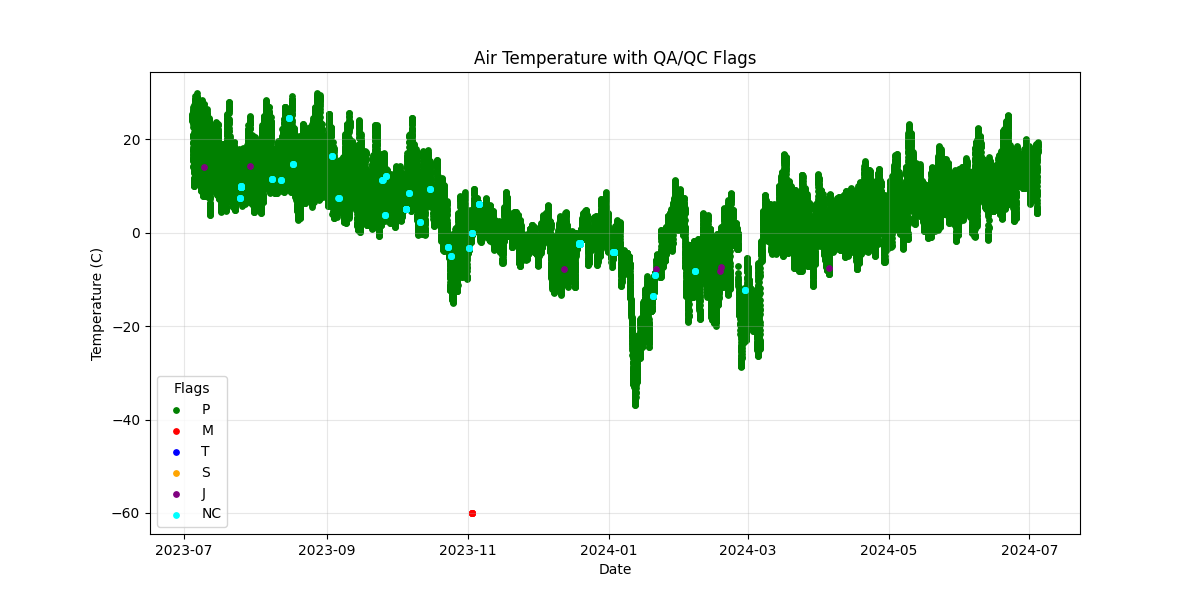
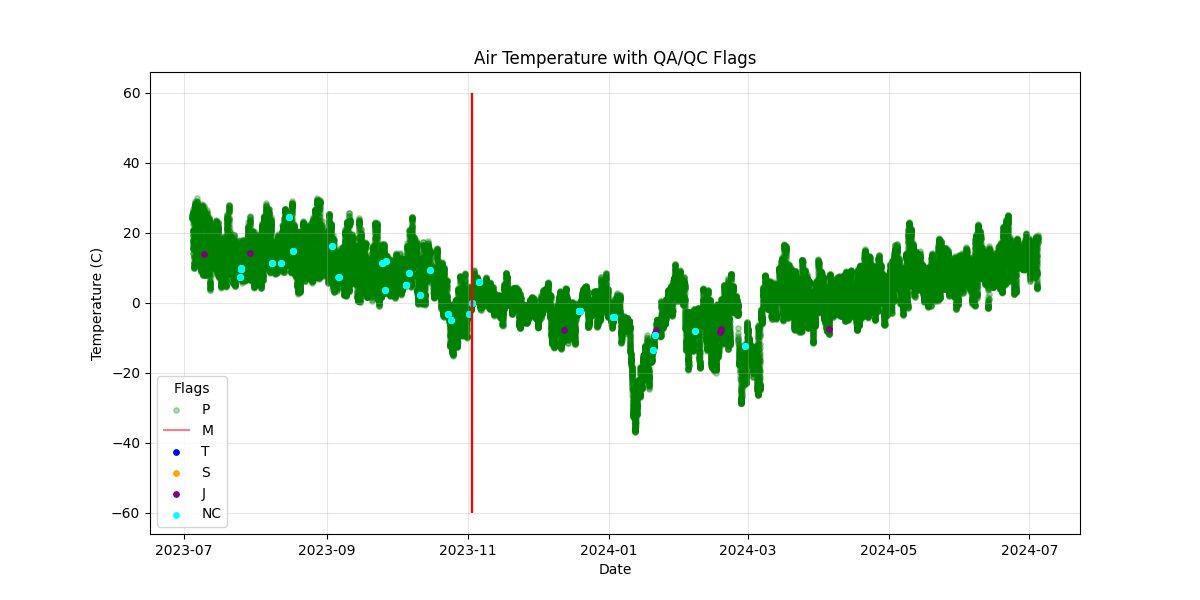
changes

diff --git a/weather_processing.py b/weather_processing.py
@@ -1,0 +1,147 @@
+import pandas as pd
+import numpy as np
+
+def process_weather_column(df, target_col, min_val, max_val, rate_of_change):
+    """
+    Applies QA/QC flags to a specific column in the dataframe.
+    
+    Args:
+        df (pd.DataFrame): The weather data dataframe (must contain 'TIMESTAMP' and target_col).
+        target_col (str): The name of the column to process.
+        min_val (float): Minimum valid value.
+        max_val (float): Maximum valid value.
+        rate_of_change (float): Maximum allowed change between consecutive records.
+        
+    Returns:
+        pd.DataFrame: A new dataframe containing TIMESTAMP, target_col, Flag, and Limit columns.
+    """
+    # Work on a copy to avoid SettingWithCopy warnings on the original df
+    # We only need specific columns for processing, but we keep TIMESTAMP for sorting/indexing
+    if target_col not in df.columns:
+        print(f"Error: {target_col} not found in columns.")
+        return pd.DataFrame()
+
+    # Create a working copy with just the necessary columns to ensure cleanliness
+    # or just copy the whole thing if we want to return it all. 
+    # The prompt implies we want to output a file specific to this column usually, 
+    # but for a general function, let's keep the logic focused on the column.
+    
+    df_proc = df[['TIMESTAMP', target_col]].copy()
+    
+    # Ensure sorted by time
+    df_proc.sort_values('TIMESTAMP', inplace=True)
+    
+    # Calculate Differences
+    # diff_prev: Value - PrevValue
+    df_proc['diff_prev'] = df_proc[target_col] - df_proc[target_col].shift(1)
+    # diff_next: Value - NextValue
+    df_proc['diff_next'] = df_proc[target_col] - df_proc[target_col].shift(-1)
+    
+    # Initialize Flag Column
+    df_proc['Flag'] = ''
+    
+    # 1. Missing (M)
+    mask_m = df_proc[target_col].isna()
+    df_proc.loc[mask_m, 'Flag'] = 'M'
+    
+    # 2. Temperature/Range Check (T): < min or > max
+    # Note: Using 'T' as requested to match original logic, even if generic.
+    
+    mask_t = (df_proc[target_col] < min_val) | (df_proc[target_col] > max_val)
+    
+    # Helper to append flags
+    def append_flag(mask, flag_char):
+        new_mask = mask & (df_proc['Flag'] == '')
+        existing_mask = mask & (df_proc['Flag'] != '') & (df_proc['Flag'] != 'M')
+        
+        df_proc.loc[new_mask, 'Flag'] = flag_char
+        df_proc.loc[existing_mask, 'Flag'] += ', ' + flag_char
+
+    append_flag(mask_t, 'T')
+
+    # 3. No Change Check (NC)
+    # Flag if 4 or more consecutive rows have the EXACT same numeric value
+    grp = (df_proc[target_col] != df_proc[target_col].shift()).cumsum()
+    grp_counts = df_proc.groupby(grp)[target_col].transform('count')
+    mask_nc = (grp_counts >= 4) & (df_proc[target_col].notna())
+    append_flag(mask_nc, 'NC')
+
+    # 4. Spike Check (S)
+    # Original simplifed logic:
+    # Abs diff > rate_of_change from BOTH prev and next
+    # Note: original code calculated diff_next/prev as actual differences (signed).
+    # mask_s = (df['diff_next'] > rate_of_change) & (df['diff_prev'] > rate_of_change)
+    # This specifically targets upward spikes. 
+    # To keep it EXACTLY the same as requested:
+    
+    mask_s = (df_proc['diff_next'] > rate_of_change) & (df_proc['diff_prev'] > rate_of_change)
+    append_flag(mask_s, 'S')
+    
+    # 5. Jump Check (J)
+    # Abs diff from Prev > rate
+    mask_j = df_proc['diff_prev'].abs() > rate_of_change
+    append_flag(mask_j, 'J')
+    
+    # 6. Pass (P)
+    mask_p = (df_proc['Flag'] == '') & (df_proc[target_col].notna())
+    df_proc.loc[mask_p, 'Flag'] = 'P'
+    
+    # Add Limit Columns for reference
+    df_proc['Min_Limit'] = min_val
+    df_proc['Max_Limit'] = max_val
+    df_proc['Rate_Limit'] = rate_of_change
+    
+    return df_proc[['TIMESTAMP', target_col, 'Flag', 'Min_Limit', 'Max_Limit', 'Rate_Limit']]
+
+if __name__ == "__main__":
+    import argparse
+    import os
+
+    parser = argparse.ArgumentParser(description="Process weather data column with QA/QC.")
+    parser.add_argument("--col", required=True, help="Column name to process (e.g., RH, BattV_Avg)")
+    parser.add_argument("--min", type=float, required=True, help="Minimum valid value")
+    parser.add_argument("--max", type=float, required=True, help="Maximum valid value")
+    parser.add_argument("--rate", type=float, required=True, help="Maximum rate of change")
+    parser.add_argument("--input", default="data/concatenated_all_years.csv", help="Input CSV file")
+    parser.add_argument("--output", help="Output file path (optional)")
+
+    args = parser.parse_args()
+
+    input_csv = args.input
+    if not os.path.exists(input_csv):
+        print(f"Error: Input file not found: {input_csv}")
+        exit(1)
+
+    # Determine output filename if not provided
+    if args.output:
+        output_csv = args.output
+    else:
+        # Default: data/processed_{col}.csv
+        base_dir = os.path.dirname(input_csv)
+        output_csv = os.path.join(base_dir, f"processed_{args.col}.csv")
+
+    print(f"Reading {input_csv}...")
+    # Load data (using settings from process_air_temp.py)
+    df = pd.read_csv(input_csv, header=0, skiprows=[1], na_values=['NAN', '"NAN"'], low_memory=False)
+    
+    # Ensure TIMESTAMP is datetime
+    df['TIMESTAMP'] = pd.to_datetime(df['TIMESTAMP'], format='mixed')
+    
+    # Filter Data (using consistent end date from process_air_temp.py)
+    # If filter logic varies, we might want to make this an argument too.
+    end_date = '2024-07-04 14:00:00'
+    print(f"Filtering data up to {end_date}...")
+    df = df[df['TIMESTAMP'] <= end_date].copy()
+
+    print(f"Processing {args.col} with Min={args.min}, Max={args.max}, Rate={args.rate}...")
+    
+    df_out = process_weather_column(df, args.col, args.min, args.max, args.rate)
+    
+    if df_out.empty:
+        print("Processing failed (column not found?).")
+    else:
+        print(f"Saving {len(df_out)} rows to {output_csv}...")
+        print("Tail of output:")
+        print(df_out.tail())
+        df_out.to_csv(output_csv, index=False, na_rep='NaN')
+        print("Done.")

diff --git a/plotting.py b/plotting.py
@@ -1,16 +1,19 @@
 import pandas as pd
 import matplotlib.pyplot as plt
 
-def plot_air_temp():
-    print("Reading data...")
+import argparse
+import os
+
+def plot_weather_data(input_file, target_col):
+    print(f"Reading data from {input_file}...")
     # 1. Read the CSV file
-    df = pd.read_csv("data/processed_air_temp.csv")
+    df = pd.read_csv(input_file)
     
     # 2. Fix the Timestamp column so Python understands dates
     df['TIMESTAMP'] = pd.to_datetime(df['TIMESTAMP'])
     
     colors = {
-        'P': 'green',
+        'P': (0, 0.5, 0, 0.3),
         'M': 'red',
         'T': 'blue',
         'S': 'orange',
@@ -20,36 +23,59 @@ def plot_air_temp():
     
     plt.figure(figsize=(12, 6))
     
-    # For 'M' (Missing), replace NaN with -60 so they appear at the bottom
-    mask_m = df['Flag'].astype(str).str.contains('M', na=False)
-    # We use .copy() to avoid SettingWithCopy warning if applicable, though read_csv returns new df
-    df.loc[mask_m, 'AirT_C_Avg'] = df.loc[mask_m, 'AirT_C_Avg'].fillna(-60)
+    # For 'M' (Missing), replace NaN with a value out of range -> actually we use vlines now
+    # We can skip the fillna step since we are plotting lines separately
     
     plt.grid(True, alpha=0.3)
     
+    # Calculate global min/max for vlines
+    data_min = df[target_col].min()
+    data_max = df[target_col].max()
+    
+    # Add some padding
+    y_min = data_min - (data_max - data_min) * 0.1
+    y_max = data_max + (data_max - data_min) * 0.1
+    
     for flag_name, color_name in colors.items():
-        
-        # Find rows where the Flag column contains this letter
-        # e.g. if looking for 'T', we find rows like "T" or "T, S"
         subset = df[df['Flag'].astype(str).str.contains(flag_name, na=False)]
         
-        # Plot these pointsno
-        plt.scatter(
-            subset['TIMESTAMP'], 
-            subset['AirT_C_Avg'], 
-            color=color_name, 
-            label=flag_name,
-            s=15 # Size of dots
-        )
+        if flag_name == 'M':
+            # Plot vertical lines for Missing values
+            if not subset.empty:
+                plt.vlines(x=subset['TIMESTAMP'], ymin=y_min, ymax=y_max, colors=color_name, label=flag_name, alpha=0.5)
+        else:
+            # Plot scatter points for other flags
+            if target_col in subset.columns:
+               plt.scatter(
+                   subset['TIMESTAMP'], 
+                   subset[target_col], 
+                   color=color_name, 
+                   label=flag_name,
+                   s=15
+               )
         
     # 6. Add labels and save
-    plt.title("Air Temperature with QA/QC Flags")
+    plt.title(f"{target_col} with QA/QC Flags")
     plt.xlabel("Date")
-    plt.ylabel("Temperature (C)")
+    plt.ylabel(target_col)
     plt.legend(title="Flags")
     
-    plt.savefig("air_temp_plot.png")
-    print("Plot saved to air_temp_plot.png")
+    # Generate output filename
+    base_name = os.path.basename(input_file).replace('.csv', '')
+    output_plot = f"{base_name}_plot.png"
+    
+    plt.savefig(output_plot)
+    print(f"Plot saved to {output_plot}")
 
 if __name__ == "__main__":
-    plot_air_temp()
+    parser = argparse.ArgumentParser(description="Plot processed weather data.")
+    parser.add_argument("--input", default="data/processed_air_temp.csv", help="Input CSV file")
+    parser.add_argument("--col", default="AirT_C_Avg", help="Target column name")
+    
+    args = parser.parse_args()
+    
+    if not os.path.exists(args.input):
+        print(f"Error: {args.input} not found.")
+        exit(1)
+        
+    plot_weather_data(args.input, args.col)
